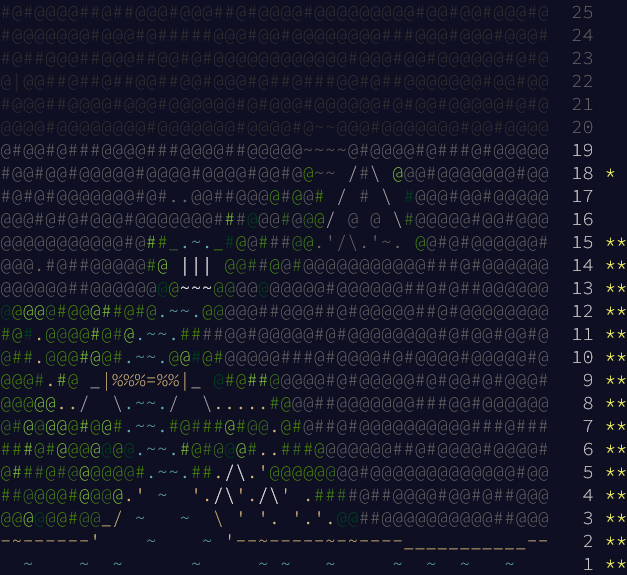
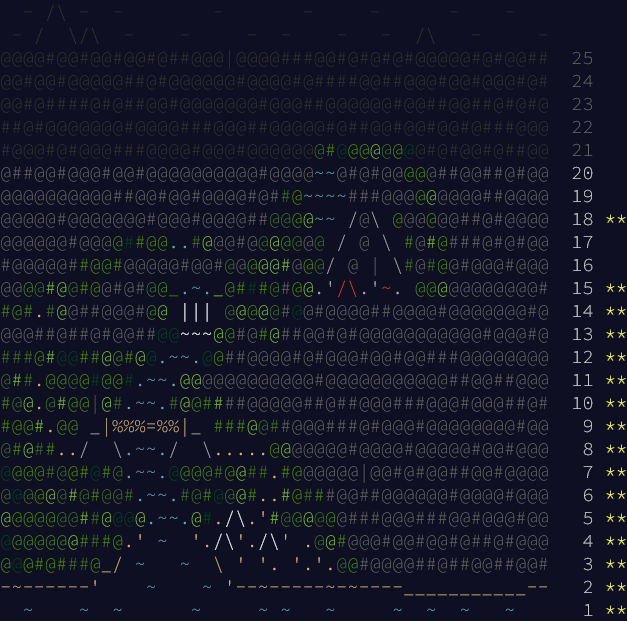
rust: 2022.18, part 2: solve

diff --git a/2022/rust/src/aoc18.rs b/2022/rust/src/aoc18.rs
@@ -170,14 +170,33 @@ where
 
         let mut exterior_air_cubes = HashSet::<Cube>::new();
         let mut queue = vec![lava_droplet.cube_min.clone()];
+
         while !queue.is_empty() {
             let current = queue.pop()?;
             let neighbors = current.neighbors();
             exterior_air_cubes.insert(current);
-            todo!()
+
+            for neighbor in neighbors {
+                if exterior_air_cubes.contains(&neighbor)
+                    || lava_droplet.cubes.contains(&neighbor)
+                    || !(neighbor >= lava_droplet.cube_min)
+                    || !(neighbor <= lava_droplet.cube_max)
+                {
+                    continue;
+                }
+                exterior_air_cubes.insert(neighbor.clone());
+                queue.push(neighbor);
+            }
         }
 
-        todo!()
+        Some(
+            lava_droplet
+                .cubes
+                .iter()
+                .flat_map(Cube::neighbors)
+                .filter(|neighbor| exterior_air_cubes.contains(neighbor))
+                .count(),
+        )
     }
 }
 

diff --git a/2022/README.md b/2022/README.md
@@ -1,30 +1,32 @@
 # [2022](https://adventofcode.com/2022)
 ```
+  - /\ -  -        -       -     -      -    -   
+ - /  \/\  -    -     -  -    -   -  /\   -     -
 @@@##@#@@@@#@@#@@@#@@####@#@@@@@@#@@##@##@@#@@@@@  25
 #@@@@@@@@@|@@@@#@#@@@#@#@#@@@@@@#@@@@@##@@@@@@@@#  24
 @#@#@#@@@@@@##@@@##@@##@##@@@@@@@@@###@#@#@@@@@@@  23
 @#@@##@@@#@@##@@####@@@@@@@#@@##@@###@###@@##@@@@  22
-@###@@@@@@@@@#@###@@@#@@@#@#@@@@@#@##@#@@@##@@###  21
-@@@@#@@@@@@@@#@@@@@@@#@@@@#@~~@@@#@@@@@@@#@@#@@@@  20
-@#@@#@###@@@@###@@@@##@@@@@~~~~@#@@@@#@###@#@@@@@  19
-#@@#@@#@@@@@#@@@@#@@@@#@@#@@~~ /#\ @@@#@@@@@@@#@@  18 *
-#@#@#@@@@@@@#@#..@@##@@@@#@@# / # \ #@@@#@@#@@@@@  17
-@@@#@#@#@@@#@@@@@@@###@@@#@@@/ @ @ \#@@@@@#@@#@@@  16
-@@@@@@@@@@@#@##_.~._#@@###@@.'/\.'~. @@#@#@@@@@@#  15 **
-@@@.#@##@@@@@#@ ||| @@##@@#@@@@@@@@@@@###@#@@@@@@  14 **
-@@@@@@##@@@@@@@@~~~@@@@@@@@@@#@@@@@@##@#@##@@@@@@  13 **
-@@@@@#@@@##@#@.~~.@@@@@##@@@##@#@@@@@##@#@@@@@@@@  12 **
-#@#.@@@@#@#@.~~.####@@#@@@@@#@#@@@@@@@@#@#@@#@@#@  11 **
-@##.@@@#@@#.~~.@@#@#@@@@@###@#@@@@#@#@@@@#@@@@@#@  10 **
-@@@#.#@ _|%%%=%%|_ @#@##@@@@@#@#@@@@@#@#@@#@#@@@#   9 **
-@@@@@../  \.~~./  \.....#@@@##@@@@@@@###@@#@@@@@@   8 **
-@#@@@@@#@@#.~~.#@###@#@@.@#@##@#@@@@@@@@@@###@###   7 **
-###@#@@@@@@@.~~.#@#@@@#..###@@@@@@@##@#@@@@#@@@@#   6 **
-@###@#@@@@@@#.~~.##./\.'@@@@@@@@#@@@@@@@@@@@@@#@@   5 **
-##@@@@#@@@@.' ~  './\'./\' .####@##@@@@#@@#@##@@@   4 **
-@@@@@@#@@_/ ~   ~  \ ' '. '.'.@@##@@@@@@@@@@##@@@   3 **
+#@@@#@#@@@###@@@@#@@@#@@@@@@@#@@@@@@@@#@#@@#@##@@  21
+@##@@#@@@#@@#@@@@@@@@@@#@@@@~~@#@#@@@@@##@@##@#@@  20
+@@@@@@@@@@##@@#@@#@@@@#@##@~~~~###@@@@@@@@@##@@@@  19
+@@@@@#@@@@@@@#@@@#@@@@##@@@@~~ /@\ @@@@@@##@#@@@@  18 **
+@@@@@@#@@@@##@@..#@@@#@@@@@@@ / @ \ #@#@###@#@#@@  17
+#@@@@@##@@#@@@@@#@@#@@@@@#@@@/ @ | \#@#@@#@@@#@@@  16
+@@@@#@@#@@#@#@@_.~._@###@#@@.'/\.'~. @@@@@@@@@@@#  15 **
+#@#.#@@##@@@#@@ ||| @@@@@#@@#@@@@##@@@@#@@@@@@@#@  14 **
+@@@##@##@#@@##@@~~~@@#@#@##@@#@#@@@@@@@@@@@#@@@#@  13 **
+###@#@@##@@#@@.~~.@@##@@@@#@#@@@#@@#@@###@@@@@@@@  12 **
+@##.@@@@#@@#.~~.@@@@@@@@@@@@#@@@@@@@@@@@##@@##@@@  11 **
+#@@.@#@@|@#.~~.#@@####@@@@@##@##@@@###@@@#@@@##@#  10 **
+#@@#.@@ _|%%%=%%|_ ###@@##@@@###@#@@@#@@@@@@@@#@@   9 **
+@#@##../  \.~~./  \.....@@@@@@@#@@@@#@@@@@#@@#@@@   8 **
+@@@@#@@#@#@.~~.@@@@#@@##.#@@@@@@|@@#@#@@##@@#@@@@   7 **
+@@@@@@#@#@@#.~~.#@#@@@#..#@###@@##@@@@@@#@@@@#@@@   6 **
+@@@@@@@##@@@@.~~.@#./\.'#@@@@@@###@@@###@@#@@@#@@   5 **
+@@@@@@@###@.' ~  './\'./\' .@@#@@@#@@#@@#@##@#@@@   4 **
+@@@#@###@_/ ~   ~  \ ' '. '.'.@@#@@@@##@##@@##@@#   3 **
 -~------'    ~    ~ '--~-----~-~----___________--   2 **
   ~    ~  ~      ~     ~ ~   ~     ~  ~  ~   ~      1 **
 ```
 
-![Calendar after day 15, and then 18, part 1](calendar.png)
+![Calendar after day 15, and then 18](calendar.png)
